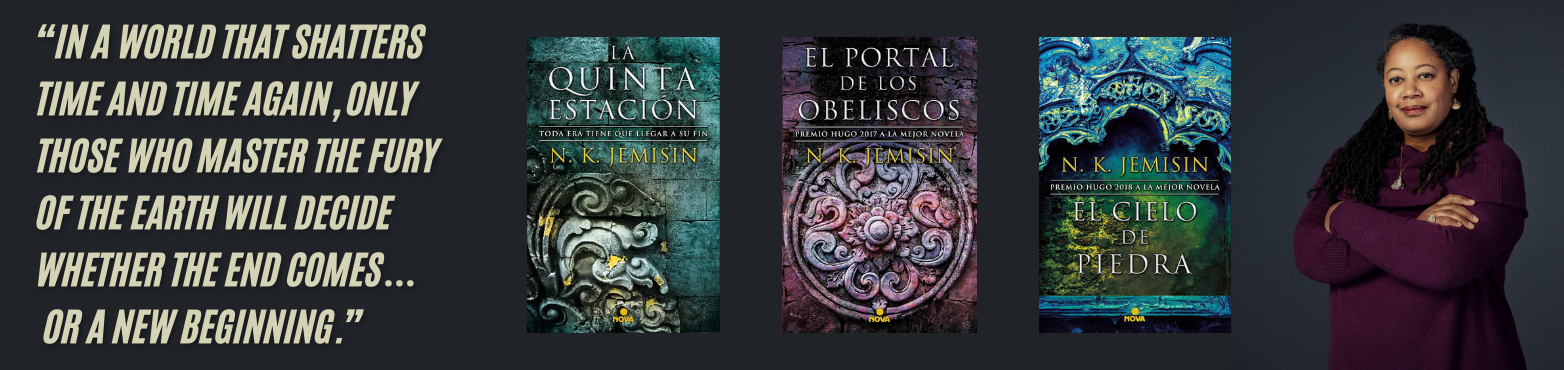
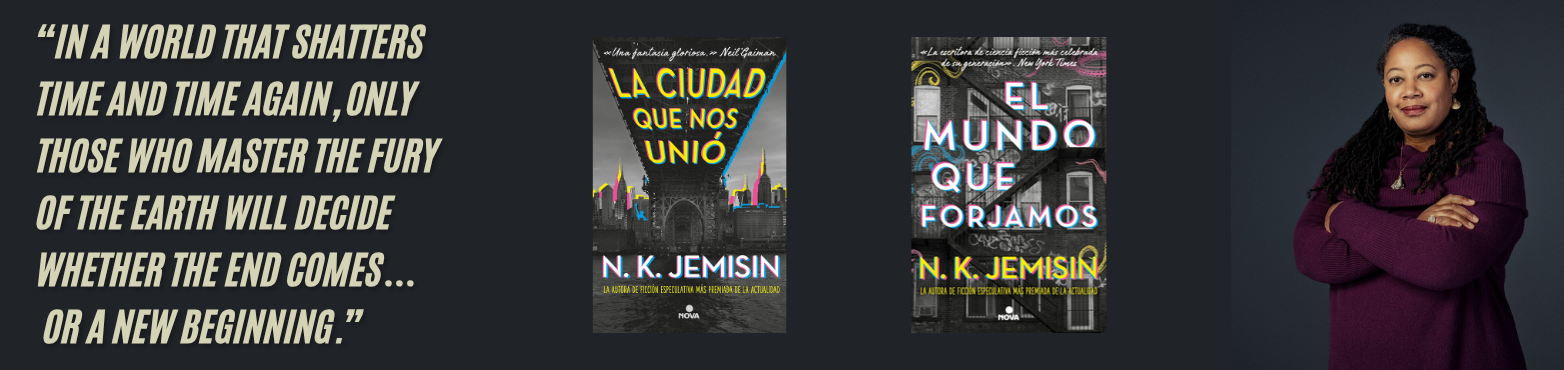
fix: Ajuste carrusel

Changed region(s): [[0.3376, 0.0892, 0.798, 0.9216]]

diff --git a/assets/js/carrusel.js b/assets/js/carrusel.js
@@ -48,8 +48,8 @@ const enlacesCarrusel=[
     'http://localhost/index.php?controller=Catalogo&action=coleccion&parametro=Providence',
     'http://localhost/index.php?controller=Catalogo&action=coleccion&parametro=The%20Walking%20Dead',
     'http://localhost/index.php?controller=Catalogo&action=coleccion&parametro=Antonia%20Scott',
-    'http://localhost/index.php?controller=Catalogo&action=coleccion&parametro=La%20Tierra%20Fragmentada',
-    'http://localhost/index.php?controller=Catalogo&action=autor&parametro=Megan-Maxwell-',
+    'http://localhost/index.php?controller=Catalogo&action=autor&parametro=N.%20K.:Jemisin:',
+    'http://localhost/index.php?controller=Catalogo&action=autor&parametro=Megan:Maxwell:',
     'http://localhost/index.php?controller=Catalogo&action=coleccion&parametro=Hay%20algo%20matando%20niños',
 ];
 
